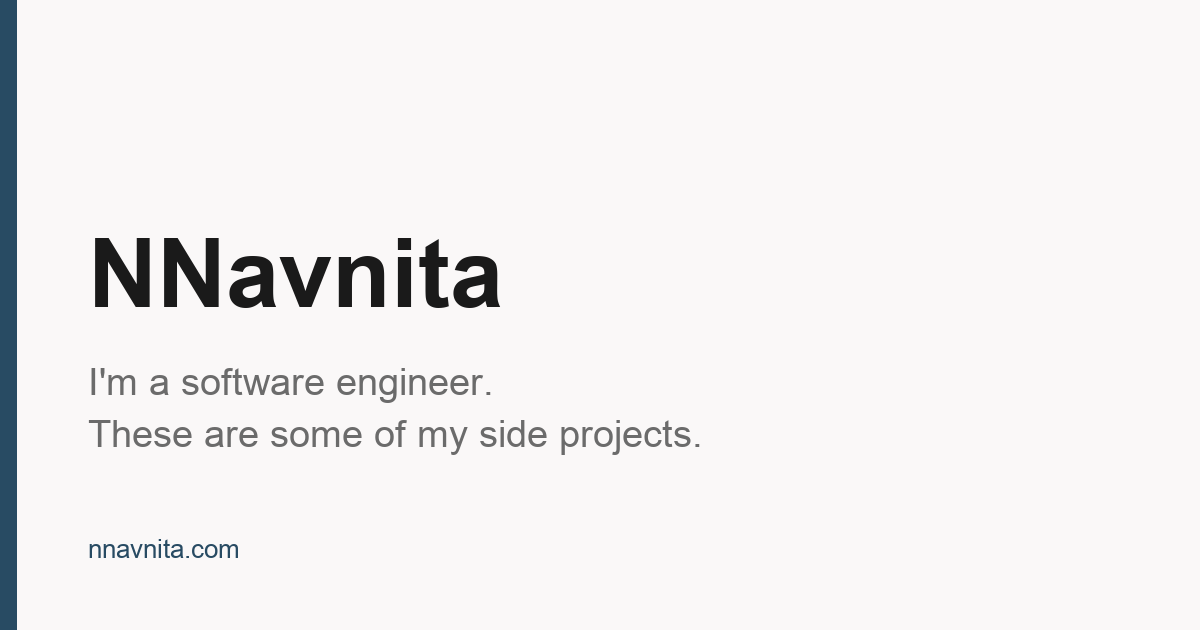
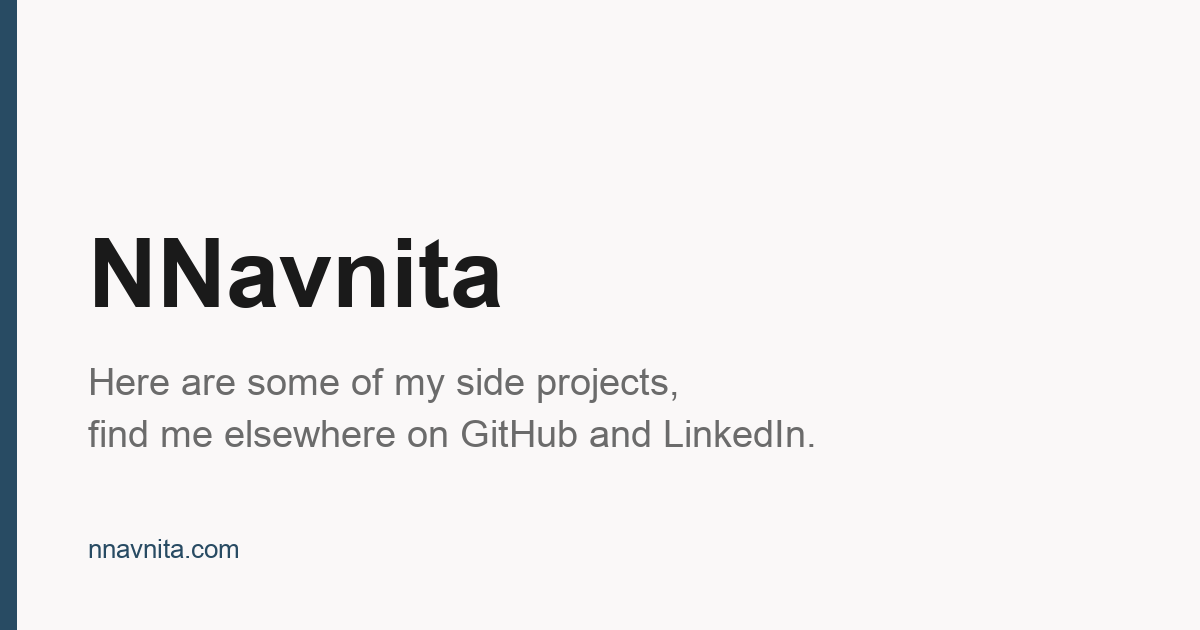
site: update tagline
Hero, meta, OG/Twitter, and og.png now read: "Here are some of my
side projects, find me elsewhere on GitHub and LinkedIn."

Changed region(s): [[0.0617, 0.6635, 0.6783, 0.7238], [0.0617, 0.573, 0.555, 0.6333]]

diff --git a/index.html b/index.html
@@ -3,19 +3,19 @@
   <head>
     <meta charset="utf-8" />
     <meta name="viewport" content="width=device-width, initial-scale=1" />
-    <title>NNavnita — software engineer</title>
-    <meta name="description" content="NNavnita — software engineer. Some of my side projects." />
+    <title>NNavnita</title>
+    <meta name="description" content="Some of NNavnita's side projects. Find her elsewhere on GitHub and LinkedIn." />
     <link rel="icon" type="image/svg+xml" href="/favicon.svg" />
 
     <!-- Open Graph / social share -->
     <meta property="og:type" content="website" />
     <meta property="og:title" content="NNavnita" />
-    <meta property="og:description" content="I'm a software engineer. These are some of my side projects." />
+    <meta property="og:description" content="Here are some of my side projects, find me elsewhere on GitHub and LinkedIn." />
     <meta property="og:image" content="https://nnavnita.com/og.png" />
     <meta property="og:url" content="https://nnavnita.com/" />
     <meta name="twitter:card" content="summary_large_image" />
     <meta name="twitter:title" content="NNavnita" />
-    <meta name="twitter:description" content="I'm a software engineer. These are some of my side projects." />
+    <meta name="twitter:description" content="Here are some of my side projects, find me elsewhere on GitHub and LinkedIn." />
     <meta name="twitter:image" content="https://nnavnita.com/og.png" />
 
     <link rel="preconnect" href="https://rsms.me/" />
@@ -255,7 +255,7 @@
         <img class="avatar" src="https://github.com/nnavnita.png?size=200" alt="NNavnita" width="72" height="72" loading="eager" />
         <div class="hero-text">
           <h1>NNavnita</h1>
-          <p>I'm a software engineer. These are some of my side projects.</p>
+          <p>Here are some of my side projects, find me elsewhere on GitHub and LinkedIn.</p>
         </div>
       </section>
 

diff --git a/scripts/build_og.py b/scripts/build_og.py
@@ -58,13 +58,13 @@ def main() -> int:
     draw.text((x, 220), "NNavnita", fill=INK, font=name_font)
     draw.text(
         (x, 360),
-        "I'm a software engineer.",
+        "Here are some of my side projects,",
         fill=MUTED,
         font=tagline_font,
     )
     draw.text(
         (x, 412),
-        "These are some of my side projects.",
+        "find me elsewhere on GitHub and LinkedIn.",
         fill=MUTED,
         font=tagline_font,
     )
